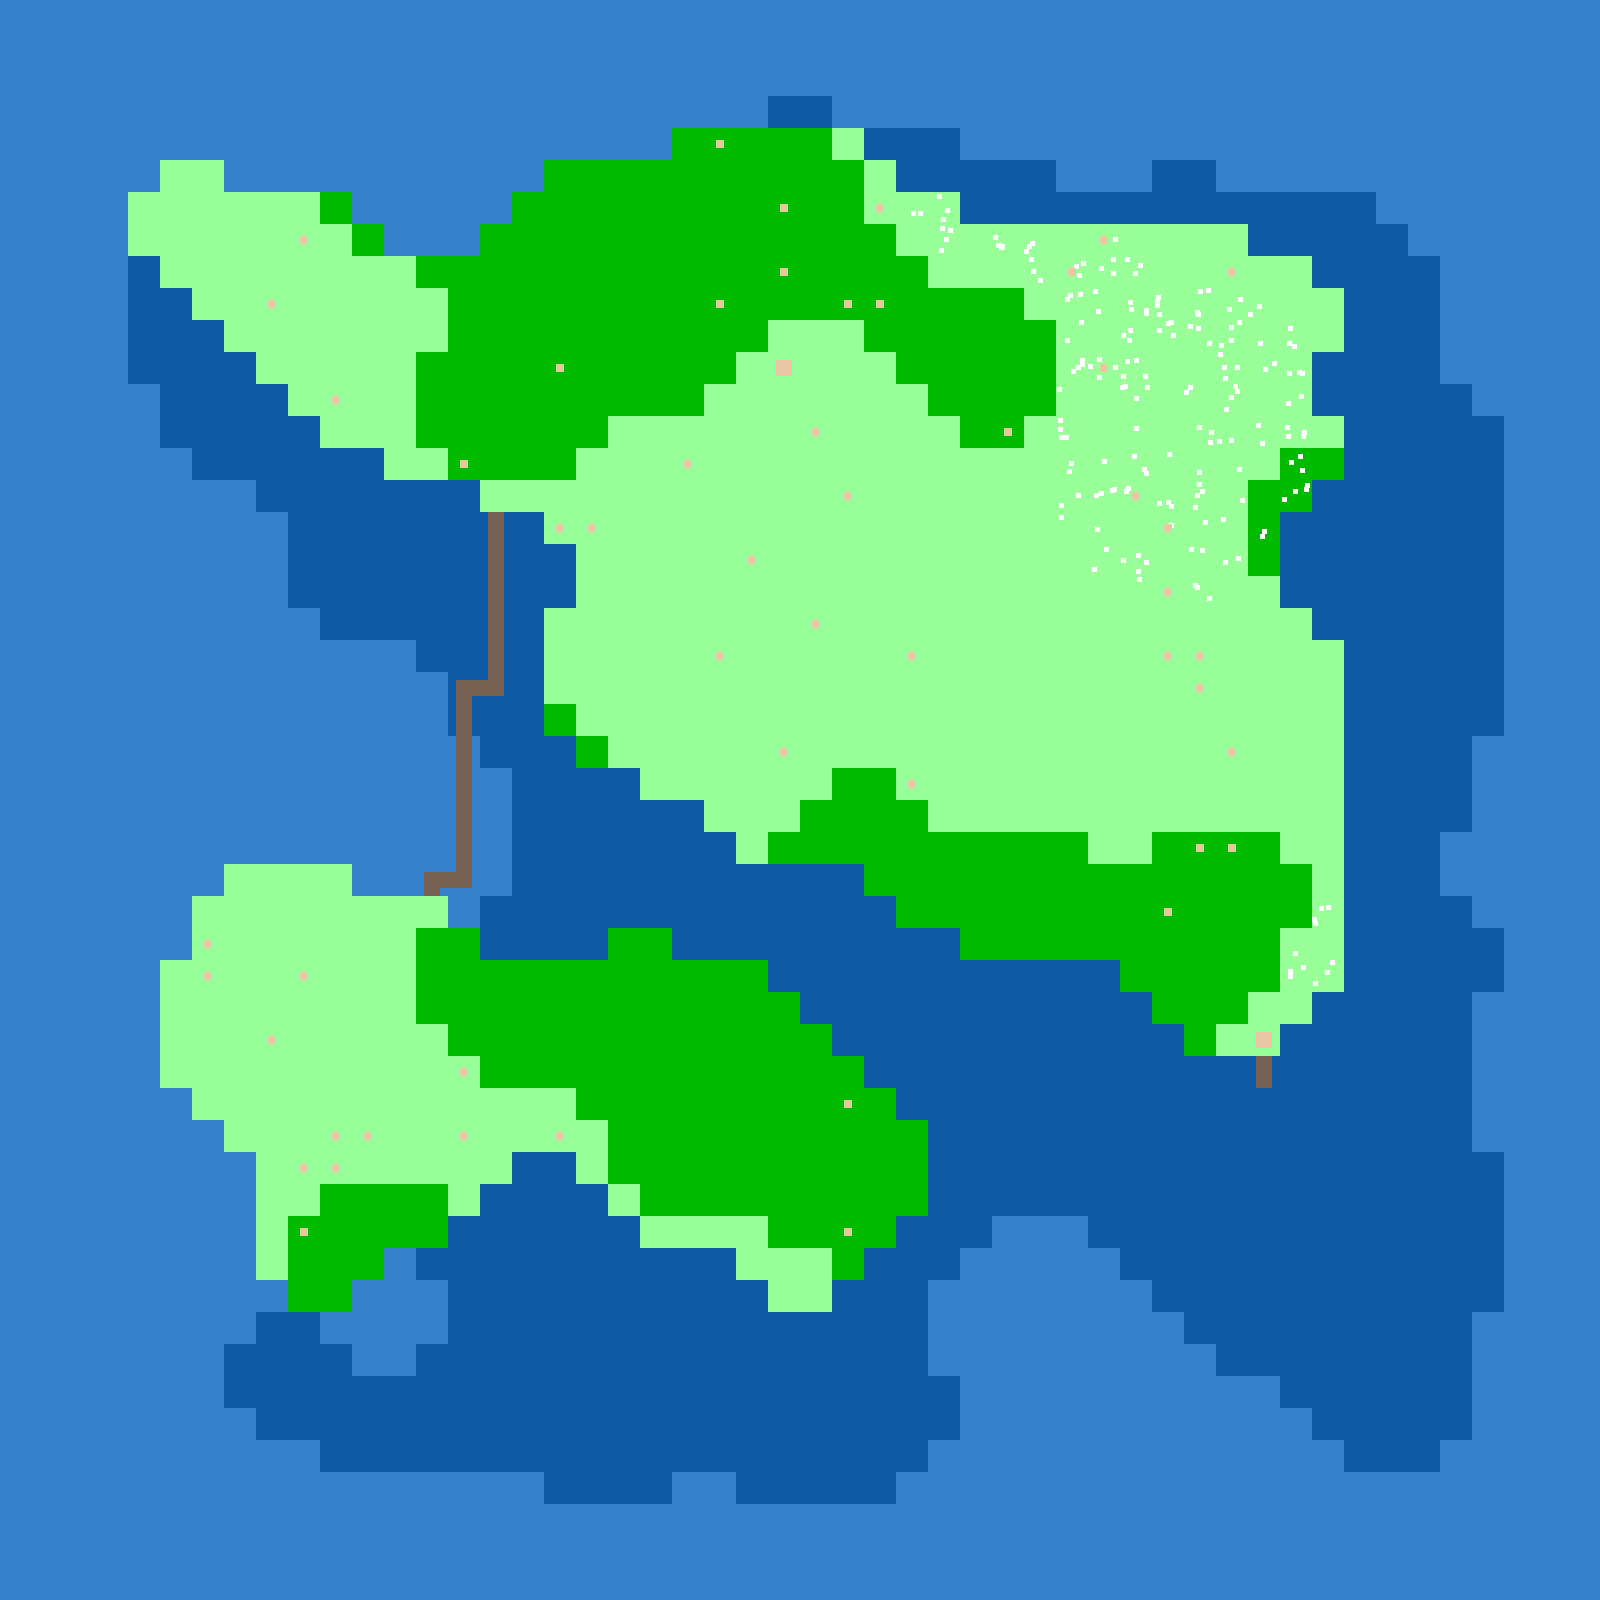
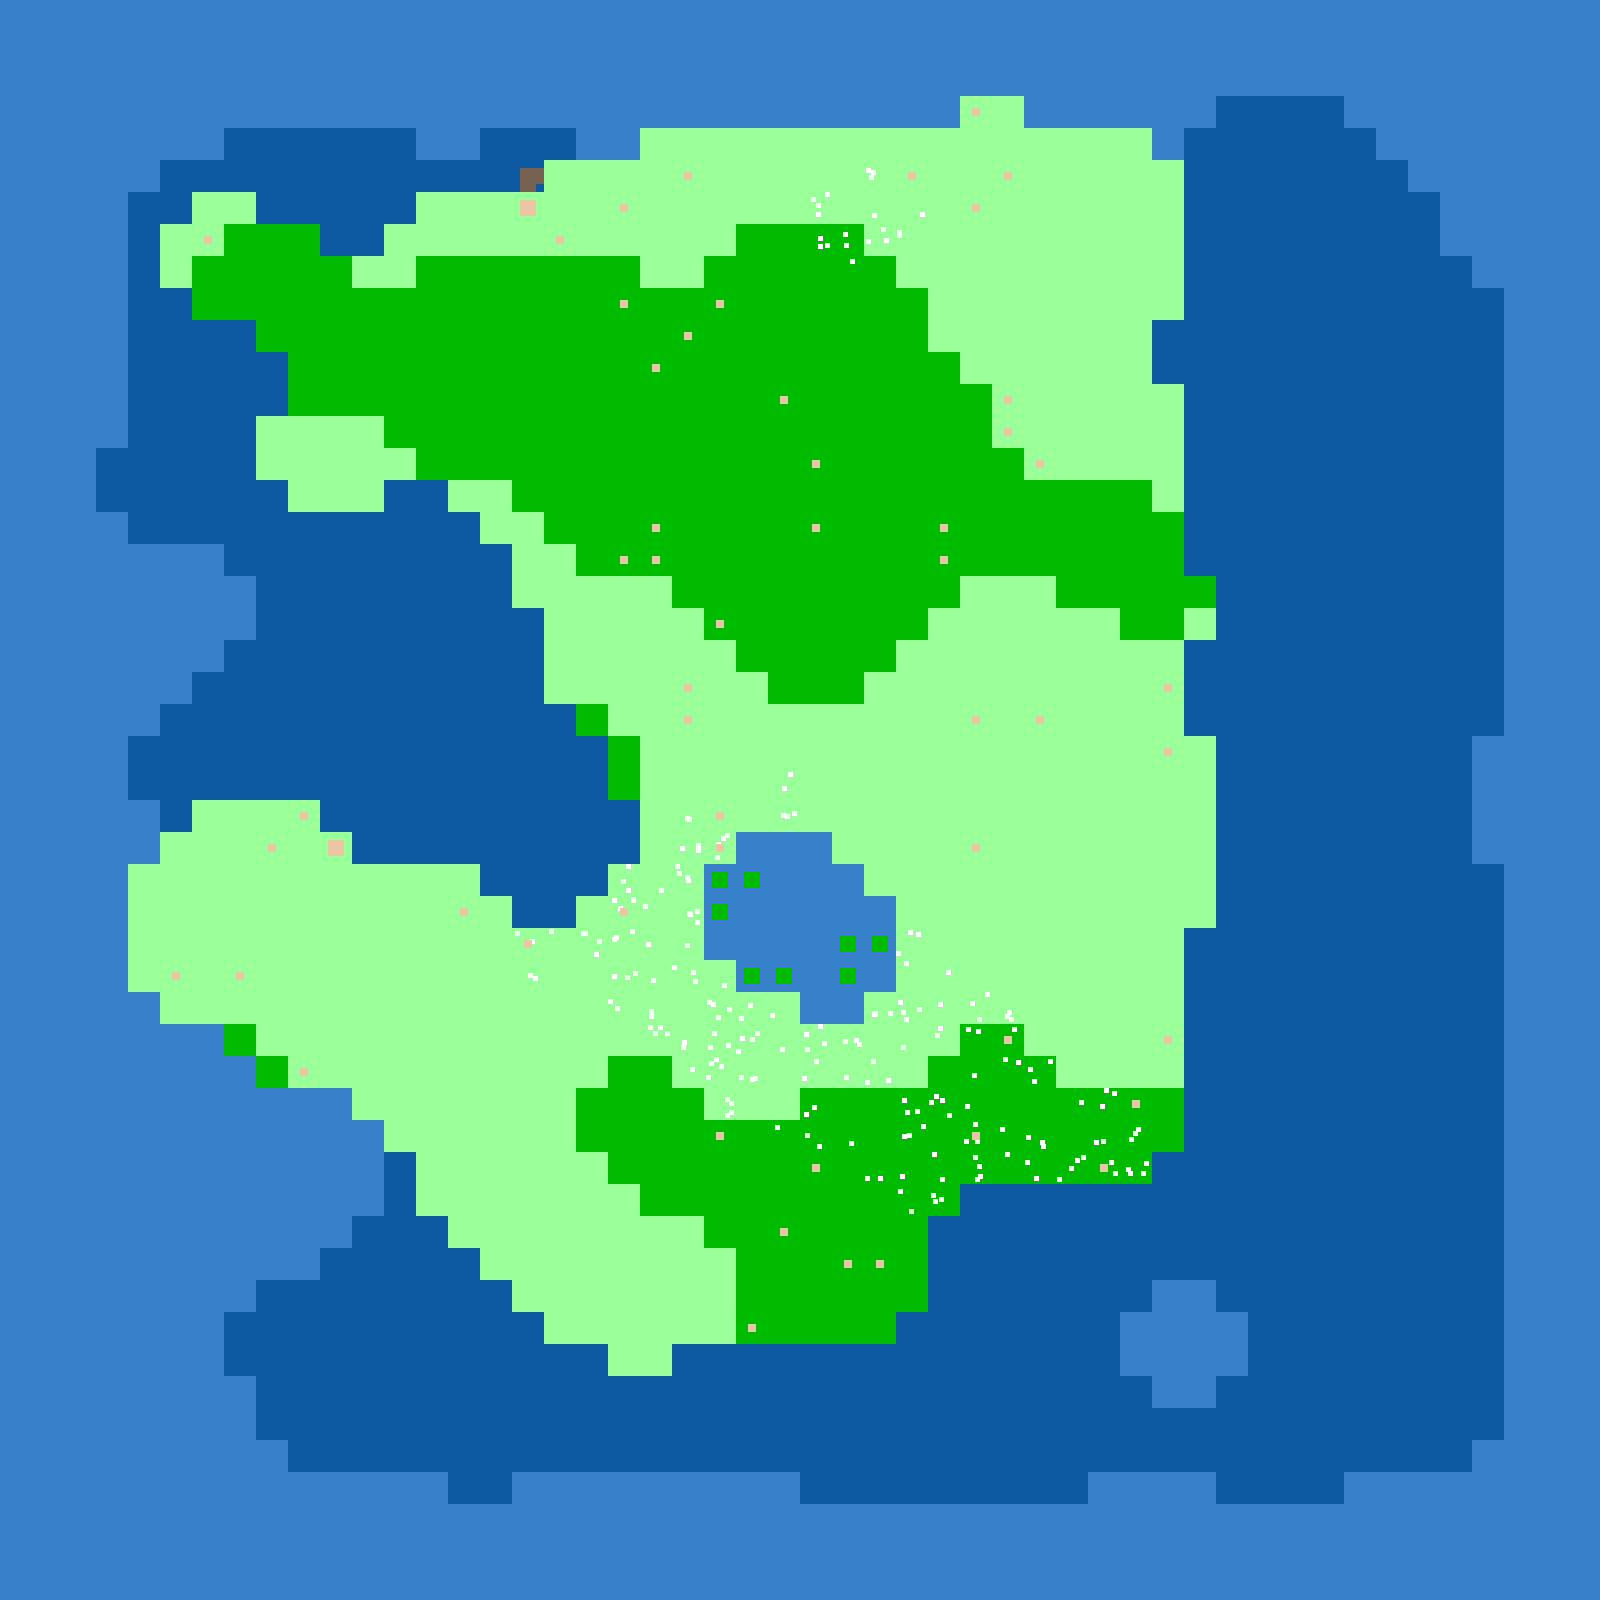
change displayMap in displayMapPreview, save both visual at the end of generateMap, clear some code

diff --git a/srcs/class/Map.cpp b/srcs/class/Map.cpp
@@ -4,6 +4,7 @@
 Map::Map() : _nbCollectible(0), _nbCollectibleLeft(0), _start((t_veci){.x = 0, .y = 0}), _enemy((t_veci){.x = 0, .y = 0}), _mapCreated(false) {
 	std::cout << "Map constructor called, generating map" << std::endl;
 	_mapView = NULL;
+	_mapPreview = NULL;
 	for (int32_t i = 0; i < MAP_WIDTH; i++) {
 		for (int32_t j = 0; j < MAP_HEIGHT; j++) {
 			_map[i][j] = '0';
@@ -12,6 +13,12 @@ Map::Map() : _nbCollectible(0), _nbCollectibleLeft(0), _start((t_veci){.x = 0, .
 }
 
 Map::~Map() {
+	if (_mapView) {
+		mlx_delete_image(_mlx->getMlx(), _mapView);
+	}
+	if (_mapPreview) {
+		mlx_delete_image(_mlx->getMlx(), _mapPreview);
+	}
 	std::cout << "Map destructor called" << std::endl;
 }
 
@@ -38,12 +45,16 @@ Map &Map::operator=(Map const &rhs) {
 }
 
 void Map::initView(MLXWrapper &mlx) {
-	if (_mapView) {
-		std::cout << "Map view already created" << std::endl;
+	_mlx = &mlx;
+	if (_mapView)
 		return ;
-	}
-	std::cout << "Creating map view" << std::endl;
 	_mapView = mlx.newImage(MAP_WIDTH * TEXTURE_SIZE, MAP_HEIGHT * TEXTURE_SIZE);
+	if (_mapPreview)
+		return ;
+	_mapPreview = mlx.newImage(MAP_WIDTH * MAP_TILE_SIZE, MAP_HEIGHT * MAP_TILE_SIZE);
+	if (!_mapView || !_mapPreview) {
+		exit_error(ERR_MLX_IMAGE);
+	}
 }
 
 void Map::generateMap() {
@@ -57,6 +68,8 @@ void Map::generateMap() {
 		_mapView = mapVisual.generateMapImage(_mapView, *this);
 		mlx_image_to_png(_mapView, "mapView.png");
 	}
+	displayMapPreview(_mapPreview, *this);
+	mlx_image_to_png(_mapPreview, "mapPreview.png");
 	_mapCreated = true;
 }
 
@@ -125,10 +138,6 @@ char Map::getCellFlower(int x, int y) const {
 		return '0';
 	}
 	return _mapFlower[x][y];
-	// if (_mapRandom[x][y] == '1' && _mapFlower[x][y] == '1') {
-	// 	return '1';
-	// }
-	// return '0';
 }
 
 char Map::getCellRandom(int x, int y) const {
@@ -157,55 +166,55 @@ void Map::_parseMapElement() {
 	_nbCollectibleLeft = _nbCollectible;
 }
 
-void displayMapImage(mlx_image_t *map_img, Map &map, t_mapDisplay *mapDisplay) {
-	if (map_img->width != MAP_WIDTH * MAP_TILE_SIZE || map_img->height != MAP_HEIGHT * MAP_TILE_SIZE) {
+void draw_map_cell(mlx_image_t *img, int x, int y, uint32_t color) {
+	draw_rect(img, x * MAP_TILE_SIZE, y * MAP_TILE_SIZE, MAP_TILE_SIZE, MAP_TILE_SIZE, color);
+}
+
+void displayMapPreview(mlx_image_t *map_img, Map &map) {
+	if (map_img->width < MAP_WIDTH * MAP_TILE_SIZE || map_img->height < MAP_HEIGHT * MAP_TILE_SIZE) {
 		if (!resize_image(map_img, MAP_WIDTH * MAP_TILE_SIZE, MAP_HEIGHT * MAP_TILE_SIZE)) {
 			exit_error("Failed to resize image");
 		}
 	}
 	for (uint32_t i = 0; i < MAP_WIDTH; i++) {
 		for (uint32_t j = 0; j < MAP_HEIGHT; j++) {
-			char cell = map.getCell(i, j);
-			if (cell == '0') {
+			if (map.getCell(i, j) == '0') {
 				if (map.getCellDeep(i, j) == '1')
-					draw_rect(map_img, i * MAP_TILE_SIZE, j * MAP_TILE_SIZE, MAP_TILE_SIZE, MAP_TILE_SIZE, WATER_COLOR);
+					draw_map_cell(map_img, i, j, WATER_COLOR);
 				else
-					draw_rect(map_img, i * MAP_TILE_SIZE, j * MAP_TILE_SIZE, MAP_TILE_SIZE, MAP_TILE_SIZE, DEEP_WATER_COLOR);
+					draw_map_cell(map_img, i, j, DEEP_WATER_COLOR);
 			}
-			else if (cell == 'X')
-				draw_rect(map_img, i * MAP_TILE_SIZE, j * MAP_TILE_SIZE, MAP_TILE_SIZE, MAP_TILE_SIZE, 0xFF0000FF);
-			else if (cell == 'O')
-				draw_rect(map_img, i * MAP_TILE_SIZE, j * MAP_TILE_SIZE, MAP_TILE_SIZE, MAP_TILE_SIZE, 0x00FF00FF);
-			else if (cell == 'U')
-				draw_rect(map_img, i * MAP_TILE_SIZE, j * MAP_TILE_SIZE, MAP_TILE_SIZE, MAP_TILE_SIZE, 0x0000FFFF);
-			else if (cell == '3')
-				draw_rect(map_img, i * MAP_TILE_SIZE, j * MAP_TILE_SIZE, MAP_TILE_SIZE, MAP_TILE_SIZE, WATER_COLOR);
-			else if (cell == '2')
-				draw_rect(map_img, i * MAP_TILE_SIZE, j * MAP_TILE_SIZE, MAP_TILE_SIZE, MAP_TILE_SIZE, BRIDGE_COLOR);
-			else if (cell == 'C' && (mapDisplay->displayElement || mapDisplay->displayCollectible)){
+			else if (map.getCell(i, j) == '3')
+				draw_map_cell(map_img, i, j, WATER_COLOR);
+			else if (map.getCell(i, j) == '1' || map.getCell(i, j) == 'C' || map.getCell(i, j) == 'S' || map.getCell(i, j) == 'E') {
 				if (map.getCellGrass(i, j) == '1')
-					draw_rect(map_img, i * MAP_TILE_SIZE, j * MAP_TILE_SIZE, MAP_TILE_SIZE, MAP_TILE_SIZE, LONG_GRASS_COLOR);
+					draw_map_cell(map_img, i, j, LONG_GRASS_COLOR);
 				else
-					draw_rect(map_img, i * MAP_TILE_SIZE, j * MAP_TILE_SIZE, MAP_TILE_SIZE, MAP_TILE_SIZE, SHORT_GRASS_COLOR);
-				draw_rect(map_img, (i * MAP_TILE_SIZE) + MAP_TILE_SIZE * 0.25, (j * MAP_TILE_SIZE) + MAP_TILE_SIZE * 0.25, MAP_TILE_SIZE * 0.5, MAP_TILE_SIZE * 0.5, COLLECTIBLE_COLOR);
+					draw_map_cell(map_img, i, j, SHORT_GRASS_COLOR);
 			}
-			else if (cell == 'S' && (mapDisplay->displayElement || mapDisplay->displaySpawn))
-				draw_rect(map_img, i * MAP_TILE_SIZE, j * MAP_TILE_SIZE, MAP_TILE_SIZE, MAP_TILE_SIZE, SPAWN_COLOR);
-			else if (cell == 'E' && (mapDisplay->displayElement || mapDisplay->displayEnemy))
-				draw_rect(map_img, i * MAP_TILE_SIZE, j * MAP_TILE_SIZE, MAP_TILE_SIZE, MAP_TILE_SIZE, ENEMY_COLOR);
-			else if (map.getCellGrass(i, j) == '1')
-				draw_rect(map_img, i * MAP_TILE_SIZE, j * MAP_TILE_SIZE, MAP_TILE_SIZE, MAP_TILE_SIZE, LONG_GRASS_COLOR);
+			else if (map.getCell(i, j) == '2')
+				draw_map_cell(map_img, i, j, BRIDGE_COLOR);
 			else
-				draw_rect(map_img, i * MAP_TILE_SIZE, j * MAP_TILE_SIZE, MAP_TILE_SIZE, MAP_TILE_SIZE, SHORT_GRASS_COLOR);
+				draw_map_cell(map_img, i, j, 0xFF0000FF);
 		}
 	}
 	for (uint32_t i = 0; i < MAP_WIDTH; i++) {
 		for (uint32_t j = 0; j < MAP_HEIGHT; j++) {
-			if (map.getCellFlower(i, j) == '1' && map.getCell(i, j) == '1') {
-				draw_rect(map_img, (i * MAP_TILE_SIZE) + MAP_TILE_SIZE * 0.25, (j * MAP_TILE_SIZE) + MAP_TILE_SIZE * 0.25, MAP_FLOWER_TILE_SIZE, MAP_FLOWER_TILE_SIZE, FLOWER_COLOR);
+			if (map.getCell(i, j) == 'S') {
+				draw_rect(map_img, (i * MAP_TILE_SIZE) + MAP_TILE_SIZE * 0.125, (j * MAP_TILE_SIZE) + MAP_TILE_SIZE * 0.125, MAP_TILE_SIZE * 0.75, MAP_TILE_SIZE * 0.75, SPAWN_COLOR);
+			}
+			else if (map.getCell(i, j) == 'E') {
+				draw_rect(map_img, (i * MAP_TILE_SIZE) + MAP_TILE_SIZE * 0.125, (j * MAP_TILE_SIZE) + MAP_TILE_SIZE * 0.125, MAP_TILE_SIZE * 0.75, MAP_TILE_SIZE * 0.75, ENEMY_COLOR);
+			}
+			else if (map.getCell(i, j) == 'C') {
+				draw_rect(map_img, (i * MAP_TILE_SIZE) + MAP_TILE_SIZE * 0.125, (j * MAP_TILE_SIZE) + MAP_TILE_SIZE * 0.125, MAP_TILE_SIZE * 0.75, MAP_TILE_SIZE * 0.75, COLLECTIBLE_COLOR);
+			}
+			if (map.getCellFlower(i, j) == '1' && (map.getCell(i, j) == '1' || map.getCell(i, j) == 'C')) {
+				draw_rect(map_img, (i * MAP_TILE_SIZE) + MAP_TILE_SIZE * 0.25, (j * MAP_TILE_SIZE) + MAP_TILE_SIZE * 0.25, MAP_TILE_SIZE * 0.5, MAP_TILE_SIZE * 0.5, FLOWER_COLOR);
+			}
+			if (map.getCell(i, j) == '3' && map.getCellRandom(i, j) == '1') {
+				draw_rect(map_img, (i * MAP_TILE_SIZE) + MAP_TILE_SIZE * 0.25, (j * MAP_TILE_SIZE) + MAP_TILE_SIZE * 0.25, MAP_TILE_SIZE * 0.5, MAP_TILE_SIZE * 0.5, LONG_GRASS_COLOR);
 			}
 		}
 	}
-	mlx_image_to_png(map_img, "map.png");
 }
-

diff --git a/srcs/class/Program.cpp b/srcs/class/Program.cpp
@@ -1,8 +1,7 @@
 #include "Program.hpp"
 
-Program::Program() : MLXSetup(WIDTH, HEIGHT, false), display(0) {
+Program::Program() : MLXSetup(WIDTH, HEIGHT, false) {
 	std::cout << "Program constructor called" << std::endl;
-	nbGeneratedMap = 0;
 	try {
 		MLXSetup.init();
 		renderer = MLXSetup.newImage(WIDTH, HEIGHT);
@@ -12,14 +11,15 @@ Program::Program() : MLXSetup(WIDTH, HEIGHT, false), display(0) {
 	}
 	map.initView(MLXSetup);
 
-	mapDisplay = (t_mapDisplay){.displayElement = true, .displayCollectible = true, .displayEnemy = true, .displaySpawn = true};
-
-	fill_img(renderer, 0x000000FF);
+	fill_img(renderer, DEEP_WATER_COLOR);
 	std::cout << "Map generated" << std::endl;
 	map.generateMap();
 }
 
 Program::~Program() {
+	if (renderer) {
+		mlx_delete_image(MLXSetup.getMlx(), renderer);
+	}
 	std::cout << "Program destructor called" << std::endl;
 }
 
@@ -50,10 +50,9 @@ Program &Program::operator=(Program const &rhs) {
 
 void process(void *program) {
 	Program		*prgm = static_cast<Program *>(program);
-	// Map			*map = &prgm->map;
-	(void)prgm;
+	Map			*map = &prgm->map;
 
-	// displayMapImage(prgm->renderer, *map, &prgm->mapDisplay);
+	displayMapPreview(prgm->renderer, *map);
 }
 
 void keyhook(mlx_key_data_t keydata, void *program) {
@@ -66,6 +65,9 @@ void keyhook(mlx_key_data_t keydata, void *program) {
 		mlx->close();
 	if (keydata.key == MLX_KEY_Q && keydata.action == MLX_PRESS)
 		mlx_image_to_png(prgm->renderer, "screenshot.png");
+	if (keydata.key == MLX_KEY_SPACE && keydata.action == MLX_PRESS) {
+		map->generateMap();
+	}
 }
 
 void moosehook(mouse_key_t button, action_t action, modifier_key_t mods, void* program) {

diff --git a/srcs/utils.cpp b/srcs/utils.cpp
@@ -38,19 +38,33 @@ void fill_img(mlx_image_t *img, uint32_t color) {
 	}
 }
 
+void	put_img_to_img(mlx_image_t *img1, mlx_image_t *img2, t_rect *src, t_rect *dst)
+{
+	int	i;
+	int	j;
+	int	tmp_x;
+	int	tmp_y;
+
+	i = 0;
+	while (i < dst->width)
+	{
+		j = 0;
+		tmp_x = src->pos.x + (i * src->width) / dst->width;
+		while (j < dst->height)
+		{
+			tmp_y = src->pos.y + (j * src->height) / dst->height;
+			put_pixel(img1, i + dst->pos.x, j + dst->pos.y,
+				get_pixel(img2, tmp_x, tmp_y));
+			j++;
+		}
+		i++;
+	}
+}
+
 void draw_rect(mlx_image_t *img, int32_t x, int32_t y, int32_t width, int32_t height, uint32_t color) {
 	for (int32_t i = 0; i < width; ++i) {
 		for (int32_t j = 0; j < height; ++j) {
 			put_pixel(img, x + i, y + j, color);
-		}
-	}
-}
-
-void draw_image(mlx_image_t *dst, mlx_image_t *src, int32_t x, int32_t y) {
-
-	for (uint32_t i = 0; i < src->width; ++i) {
-		for (uint32_t j = 0; j < src->height; ++j) {
-			put_pixel(dst, x + i, y + j, get_pixel(src, i, j));
 		}
 	}
 }

diff --git a/incs/include.h b/incs/include.h
@@ -28,20 +28,19 @@ typedef struct u_veci {
 	int y;
 }	t_veci;
 
-typedef struct u_mapDisplay {
-	bool displayElement;
-	bool displayCollectible;
-	bool displayEnemy;
-	bool displaySpawn;
-}	t_mapDisplay;
+typedef struct u_rect {
+	t_veci pos;
+	int width;
+	int height;
+}	t_rect;
 
 typedef std::vector<int> t_vectori;
 
 void exit_error(const std::string &msg);
 void put_pixel(mlx_image_t *img, int32_t x, int32_t y, uint32_t color);
 void fill_img(mlx_image_t *img, uint32_t color);
+void put_img_to_img(mlx_image_t *img1, mlx_image_t *img2, t_rect *src, t_rect *dst);
 void draw_rect(mlx_image_t *img, int32_t x, int32_t y, int32_t width, int32_t height, uint32_t color);
-void draw_image(mlx_image_t *dst, mlx_image_t *src, int32_t x, int32_t y);
 bool resize_image(mlx_image_t *img, int32_t nwidth, int32_t nheight);
 void gradiant(mlx_image_t *img, int32_t width, int32_t height);
 

diff --git a/incs/Map.hpp b/incs/Map.hpp
@@ -43,11 +43,13 @@ private:
 
 	bool			_mapCreated;
 
+	MLXWrapper		*_mlx;
 	mlx_image_t		*_mapView;
+	mlx_image_t		*_mapPreview;
 
 	void			_parseMapElement();
 };
 
-void displayMapImage(mlx_image_t *map_img, Map &map, t_mapDisplay *mapDisplay);
+void displayMapPreview(mlx_image_t *map_img, Map &map);
 
 #endif

diff --git a/incs/Program.hpp b/incs/Program.hpp
@@ -15,17 +15,13 @@ public:
 	Program();
 	~Program();
 
-	int nbGeneratedMap;
-
+	void 		init();
 	void		run();
 
 	MLXWrapper	MLXSetup;
 	mlx_image_t	*renderer;
 
 	Map map;
-	t_mapDisplay mapDisplay;
-
-	int display;
 
 private:
 	Program(Program const &src);
